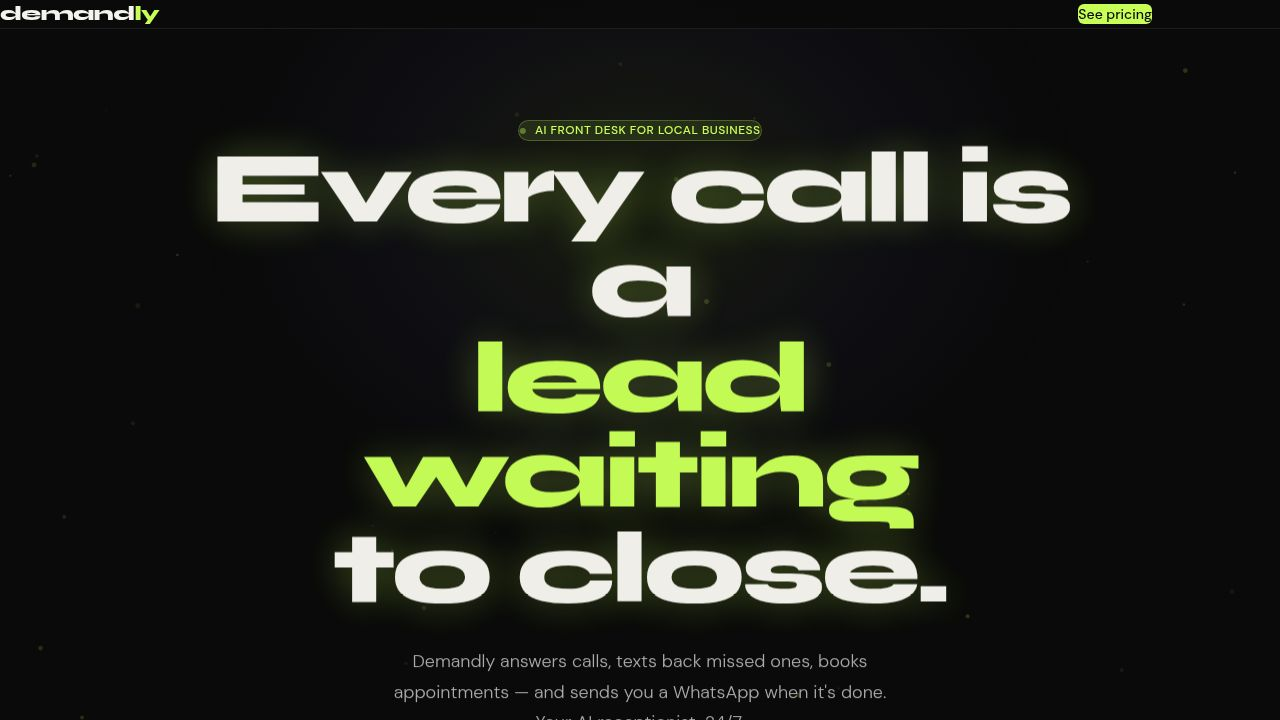
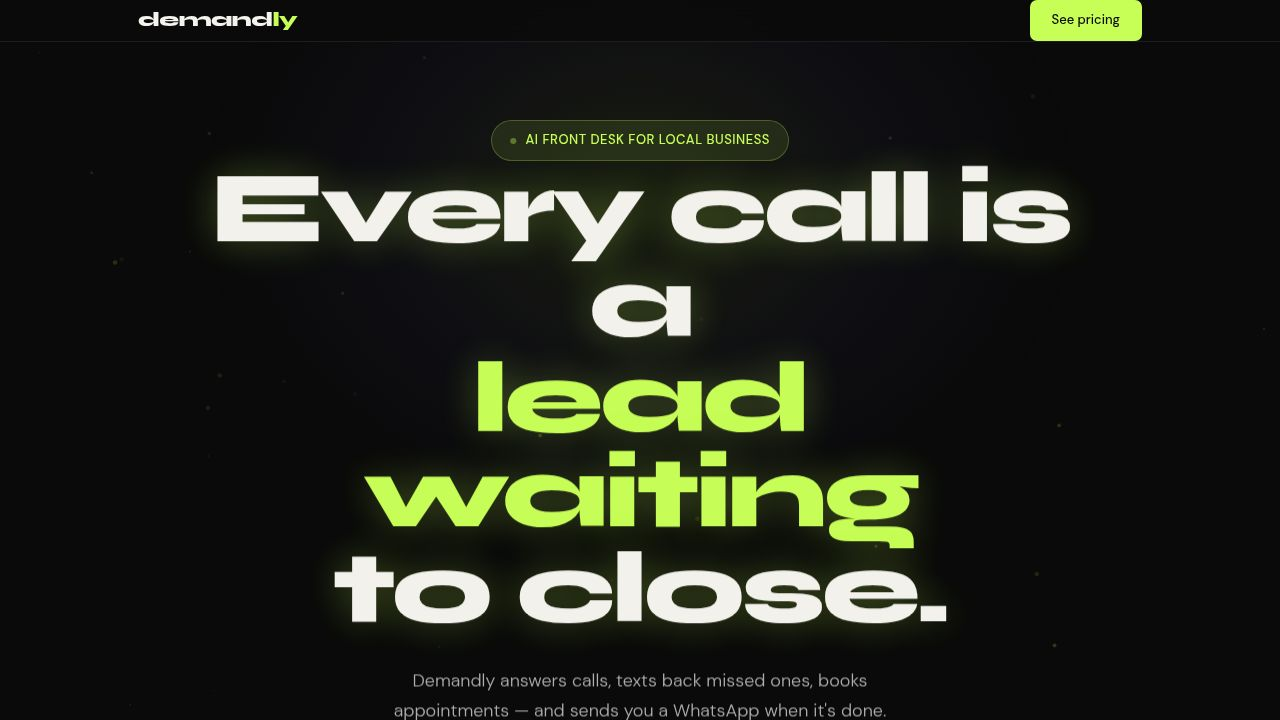
Add booking functionality using Cal.com
Integrates Cal.com for appointment scheduling, replacing the previous modal with a direct booking popup initiated by all primary CTAs across the application.

Replit-Commit-Author: Agent
Replit-Commit-Session-Id: b1d372a6-68ae-430c-8c59-b5dfb0a56dbf
Replit-Commit-Checkpoint-Type: full_checkpoint
Replit-Commit-Event-Id: 3ba240b4-616f-4edc-965e-880c00fd49be
Replit-Commit-Screenshot-Url: https://storage.googleapis.com/screenshot-production-us-central1/8c291e40-3b21-4404-918b-600fab8a345d/b1d372a6-68ae-430c-8c59-b5dfb0a56dbf/KIBGpW6
Replit-Helium-Checkpoint-Created: true

diff --git a/artifacts/demandly/index.html b/artifacts/demandly/index.html
@@ -8,6 +8,43 @@
     <link rel="preconnect" href="https://fonts.googleapis.com">
     <link rel="preconnect" href="https://fonts.gstatic.com" crossorigin>
     <link href="https://fonts.googleapis.com/css2?family=Syne:wght@400;500;600;700;800&family=DM+Sans:ital,wght@0,300;0,400;0,500;1,300&display=swap" rel="stylesheet">
+    <script>
+      (function (C, A, L) {
+        let p = function (a, ar) { a.q.push(ar); };
+        let d = C.document;
+        C.Cal = C.Cal || function () {
+          let cal = C.Cal;
+          let ar = arguments;
+          if (!cal.loaded) {
+            cal.ns = {};
+            cal.q = cal.q || [];
+            d.head.appendChild(d.createElement("script")).src = A;
+            cal.loaded = true;
+          }
+          if (ar[0] === L) {
+            const api = function () { p(api, arguments); };
+            const namespace = ar[1];
+            api.q = api.q || [];
+            if (typeof namespace === "string") {
+              cal.ns[namespace] = cal.ns[namespace] || api;
+              p(cal.ns[namespace], ar);
+              p(cal, ["-", namespace, ar]);
+            } else {
+              p(cal, ar);
+            }
+            return;
+          }
+          p(cal, ar);
+        };
+      })(window, "https://app.cal.com/embed/embed.js", "init");
+      Cal("init", { origin: "https://cal.com" });
+      Cal("ui", {
+        theme: "dark",
+        styles: { branding: { brandColor: "#c8ff57" } },
+        hideEventTypeDetails: false,
+        layout: "month_view"
+      });
+    </script>
   </head>
   <body>
     <div id="root"></div>

diff --git a/artifacts/demandly/src/App.tsx b/artifacts/demandly/src/App.tsx
@@ -1,36 +1,39 @@
-import { useState } from "react";
 import BgCanvas from "@/components/BgCanvas";
 import Navbar from "@/components/Navbar";
 import Hero from "@/components/Hero";
 import HowItWorks from "@/components/HowItWorks";
 import Pricing from "@/components/Pricing";
 import Footer from "@/components/Footer";
-import Modal from "@/components/Modal";
+
+declare global {
+  interface Window {
+    Cal?: (...args: unknown[]) => void;
+  }
+}
+
+const CAL_LINK = "demandlycrew/30min";
+
+function openCal() {
+  if (typeof window.Cal === "function") {
+    window.Cal("openModal", { calLink: CAL_LINK });
+  } else {
+    window.open(`https://cal.com/${CAL_LINK}`, "_blank");
+  }
+}
 
 export default function App() {
-  const [modalPlan, setModalPlan] = useState<string | null>(null);
-
-  const openModal = (plan?: string) => {
-    setModalPlan(plan ?? "Growth");
-  };
-
   return (
     <>
       <BgCanvas />
-
       <div style={{ position: "relative", zIndex: 1 }}>
-        <Navbar />
+        <Navbar onCTA={openCal} />
         <main>
-          <Hero onCTA={openModal} />
+          <Hero onCTA={openCal} />
           <HowItWorks />
-          <Pricing onCTA={openModal} />
+          <Pricing onCTA={openCal} />
         </main>
-        <Footer />
+        <Footer onCTA={openCal} />
       </div>
-
-      {modalPlan !== null && (
-        <Modal plan={modalPlan} onClose={() => setModalPlan(null)} />
-      )}
     </>
   );
 }

diff --git a/artifacts/demandly/src/components/Pricing.tsx b/artifacts/demandly/src/components/Pricing.tsx
@@ -104,7 +104,7 @@ interface PkgProps {
   layer1Features: string[];
   layer2Features: string[];
   layer3Features: string[];
-  onCTA: (plan: string) => void;
+  onCTA: () => void;
 }
 
 function PricingCard({
@@ -238,7 +238,7 @@ function PricingCard({
       <div style={{ flex: 1 }} />
 
       <button
-        onClick={() => onCTA(tier)}
+        onClick={onCTA}
         className="btn-transition"
         style={{
           display: "block",
@@ -277,7 +277,7 @@ function PricingCard({
   );
 }
 
-export default function Pricing({ onCTA }: { onCTA: (plan: string) => void }) {
+export default function Pricing({ onCTA }: { onCTA: () => void }) {
   const sectionRef = useRef<HTMLDivElement>(null);
 
   useEffect(() => {

diff --git a/artifacts/demandly/src/components/Hero.tsx b/artifacts/demandly/src/components/Hero.tsx
@@ -1,4 +1,4 @@
-export default function Hero({ onCTA }: { onCTA: (plan?: string) => void }) {
+export default function Hero({ onCTA }: { onCTA: () => void }) {
   const scrollTo = (id: string) => {
     document.getElementById(id)?.scrollIntoView({ behavior: "smooth" });
   };
@@ -73,7 +73,7 @@ export default function Hero({ onCTA }: { onCTA: (plan?: string) => void }) {
         className="animate-fade-up-3 relative z-10 flex flex-wrap items-center justify-center gap-3"
       >
         <button
-          onClick={() => onCTA("Growth")}
+          onClick={onCTA}
           className="btn-transition font-medium rounded-lg cursor-pointer"
           style={{
             fontSize: "15px",

diff --git a/artifacts/demandly/src/components/Navbar.tsx b/artifacts/demandly/src/components/Navbar.tsx
@@ -1,6 +1,6 @@
 import { useEffect, useState } from "react";
 
-export default function Navbar() {
+export default function Navbar({ onCTA }: { onCTA: () => void }) {
   const [scrolled, setScrolled] = useState(false);
 
   useEffect(() => {
@@ -32,7 +32,7 @@ export default function Navbar() {
         </div>
 
         <button
-          onClick={() => scrollTo("pricing")}
+          onClick={onCTA}
           className="btn-transition cursor-pointer select-none font-medium"
           style={{
             background: "#c8ff57",

diff --git a/artifacts/demandly/src/components/Footer.tsx b/artifacts/demandly/src/components/Footer.tsx
@@ -1,4 +1,4 @@
-export default function Footer() {
+export default function Footer({ onCTA }: { onCTA: () => void }) {
   const scrollTo = (id: string) => {
     document.getElementById(id)?.scrollIntoView({ behavior: "smooth" });
   };
@@ -167,7 +167,7 @@ export default function Footer() {
             Set up in 48 hours.
           </p>
           <button
-            onClick={() => scrollTo("pricing")}
+            onClick={onCTA}
             style={{
               background: "#c8ff57",
               color: "#0a0a0a",
